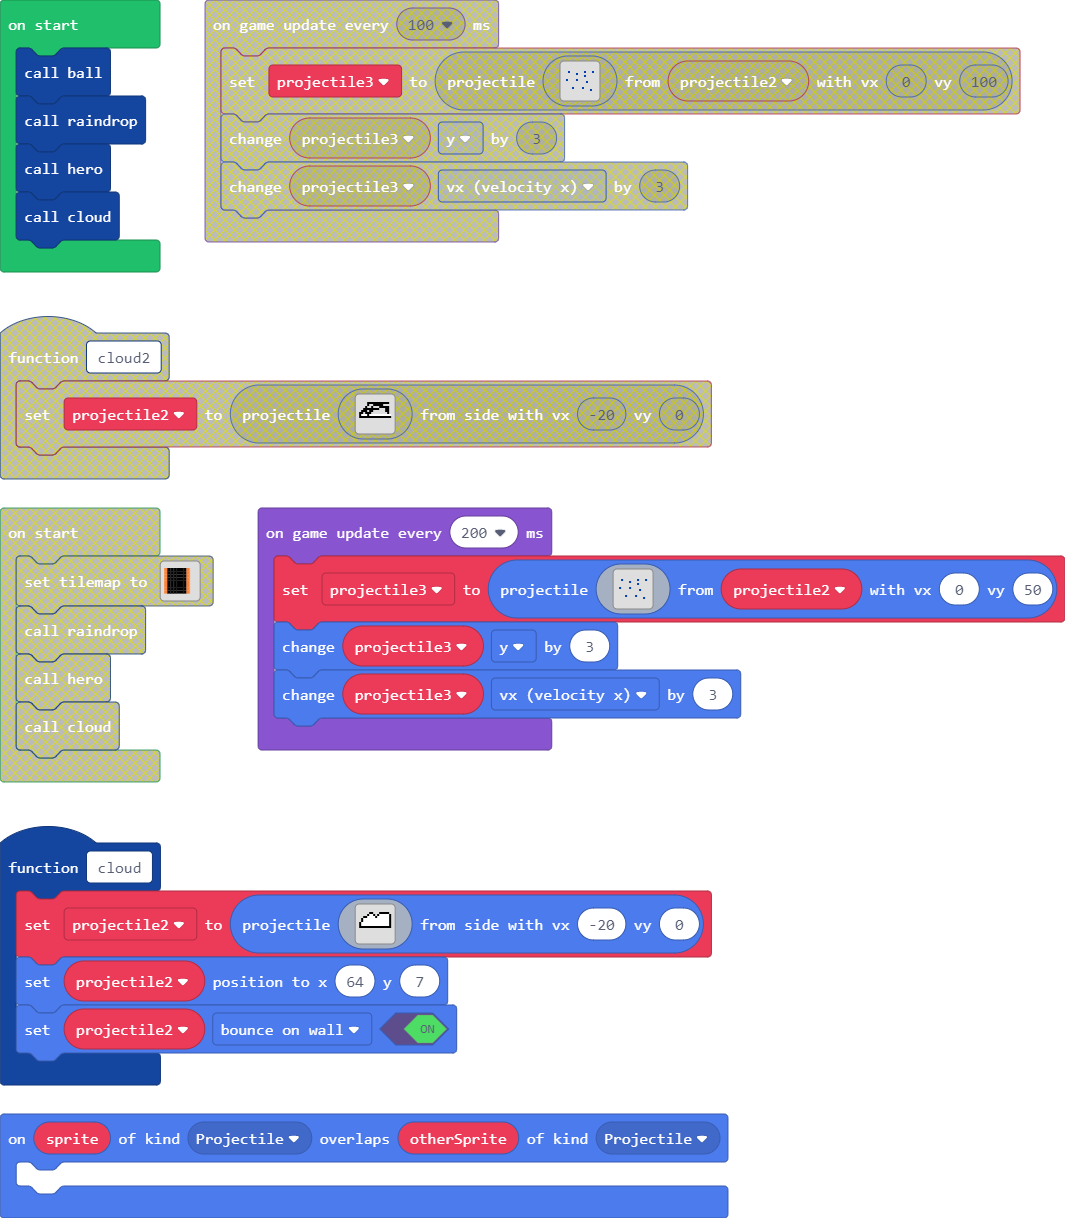
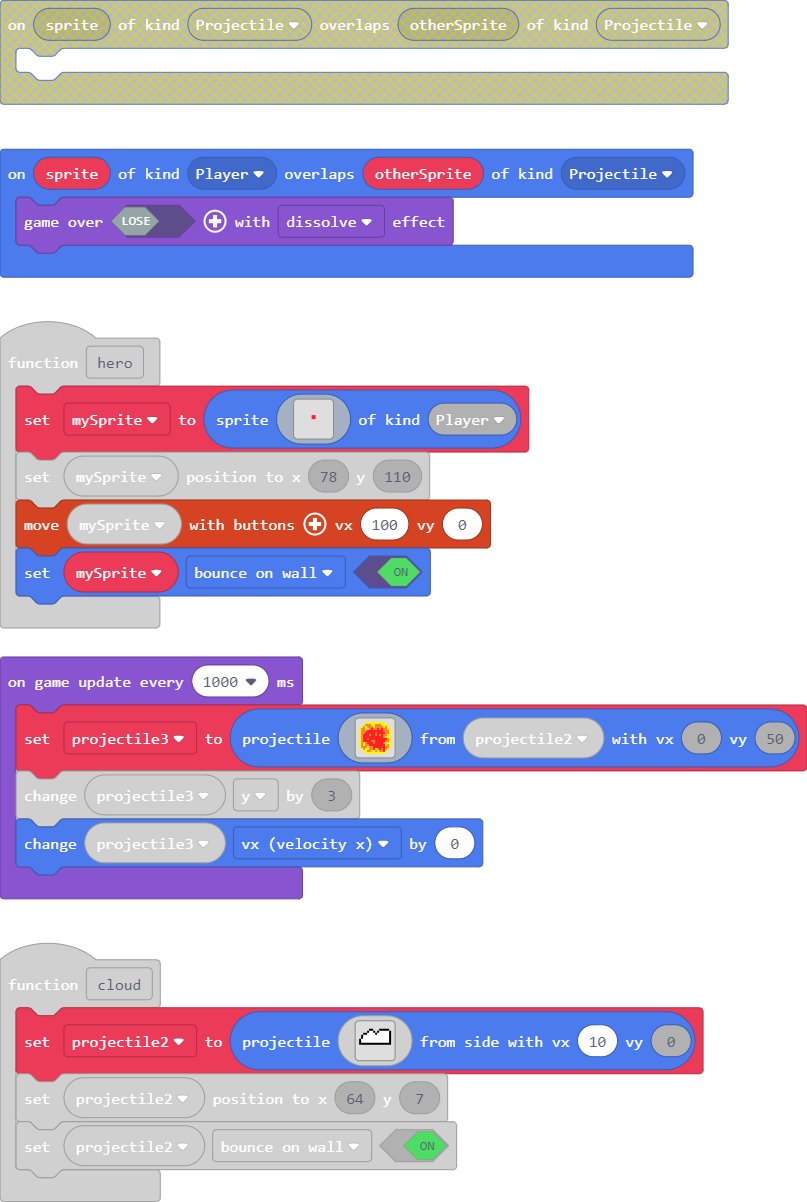
Update pxt.json, main.blocks, main.ts

diff --git a/main.ts b/main.ts
@@ -1,3 +1,6 @@
+namespace SpriteKind {
+    export const projectile3 = SpriteKind.create()
+}
 namespace myTiles {
     //% blockIdentity=images._tile
     export const tile0 = img`
@@ -62,14 +65,14 @@ function hero () {
 . . . . . . . . . . . . . . . . 
 . . . . . . . . . . . . . . . . 
 . . . . . . . . . . . . . . . . 
-. . . 7 . . . . . . . . . . 7 . 
 . . . . . . . . . . . . . . . . 
 . . . . . . . . . . . . . . . . 
 . . . . . . . . . . . . . . . . 
+. . . . . . . 2 2 . . . . . . . 
+. . . . . . . 2 2 . . . . . . . 
 . . . . . . . . . . . . . . . . 
-. . . . 7 . . . . . . . . 7 . . 
-. . . . . 7 7 . . . . 7 7 . . . 
-. . . . . . . 7 7 7 7 . . . . . 
+. . . . . . . . . . . . . . . . 
+. . . . . . . . . . . . . . . . 
 . . . . . . . . . . . . . . . . 
 . . . . . . . . . . . . . . . . 
 . . . . . . . . . . . . . . . . 
@@ -77,7 +80,8 @@ function hero () {
 . . . . . . . . . . . . . . . . 
 `, SpriteKind.Player)
     mySprite.setPosition(78, 110)
-    controller.moveSprite(mySprite)
+    controller.moveSprite(mySprite, 100, 0)
+    mySprite.setFlag(SpriteFlag.BounceOnWall, true)
 }
 function cloud () {
     projectile2 = sprites.createProjectileFromSide(img`
@@ -97,13 +101,16 @@ f f f f f f f f f f f f f f f f
 . . . . . . . . . . . . . . . . 
 . . . . . . . . . . . . . . . . 
 . . . . . . . . . . . . . . . . 
-`, -20, 0)
+`, 10, 0)
     projectile2.setPosition(64, 7)
     projectile2.setFlag(SpriteFlag.BounceOnWall, true)
 }
 function score () {
 	
 }
+sprites.onOverlap(SpriteKind.Player, SpriteKind.Projectile, function (sprite, otherSprite) {
+    game.over(false, effects.dissolve)
+})
 controller.A.onEvent(ControllerButtonEvent.Pressed, function () {
     projectile = sprites.createProjectileFromSprite(img`
 . . . . . . . . . . . . . . . . 
@@ -124,9 +131,6 @@ controller.A.onEvent(ControllerButtonEvent.Pressed, function () {
 . . . . . . . . . . . . . . . . 
 `, mySprite, 0, -100)
 })
-sprites.onOverlap(SpriteKind.Projectile, SpriteKind.Projectile, function (sprite, otherSprite) {
-	
-})
 function raindrop () {
 	
 }
@@ -141,25 +145,25 @@ ball()
 raindrop()
 hero()
 cloud()
-game.onUpdateInterval(200, function () {
+game.onUpdateInterval(1000, function () {
     projectile3 = sprites.createProjectileFromSprite(img`
-. . . . . . . . . . . . . . . . 
-. . . . . . . . . . . . . . . . 
-. . . . . . . . . . . . . . . . 
-. . 8 . . . . . . . 8 . . . 8 . 
-. . . . . . 8 . . . . . . . . . 
-. . . . . . . . . . 8 . . . . . 
-. . . . . . . . . . . . . . . . 
-. 8 . . . . 8 . . . . . . . . . 
-. . . . . . . . . . . 8 . . . . 
-. . . . . . . . . . . . . . . . 
-. . . . . . . . . . . . . . . . 
-. . . . 8 . . . . 8 . . . . . . 
-. . . . . . . . . . . . . 8 . . 
-. . . . . . . . . . . . . . . . 
-. . . . . . . . . . . . . . . . 
-. . . . . . . . . . . . . . . . 
+. . . 5 5 5 5 5 5 5 5 5 5 . . . 
+. . 5 4 4 4 5 5 4 4 4 5 5 5 . . 
+. 5 4 5 4 4 4 5 4 4 4 4 5 4 5 . 
+5 4 4 5 5 4 2 4 4 2 4 2 4 4 5 5 
+5 4 4 4 2 2 2 2 2 2 2 2 4 4 4 5 
+5 4 4 2 2 2 2 2 4 2 2 2 2 4 4 5 
+5 4 2 2 2 4 2 2 4 2 4 2 4 4 5 5 
+5 4 2 2 2 2 2 2 2 2 2 2 4 5 5 5 
+5 4 2 2 4 2 2 2 2 2 2 2 2 2 4 5 
+5 4 2 2 2 2 4 4 2 2 2 2 2 4 4 5 
+5 4 5 4 2 2 2 4 2 2 2 2 4 5 5 5 
+5 4 5 4 4 2 2 2 2 2 2 2 2 5 4 5 
+5 4 4 4 5 4 4 2 2 2 2 2 2 4 4 5 
+. 5 4 5 5 4 4 2 5 4 2 4 2 4 5 . 
+. . 5 5 4 4 5 5 4 5 4 4 2 5 . . 
+. . . 5 5 5 5 5 5 5 5 5 5 . . . 
 `, projectile2, 0, 50)
     projectile3.y += 3
-    projectile3.vx += 3
+    projectile3.vx += 0
 })
